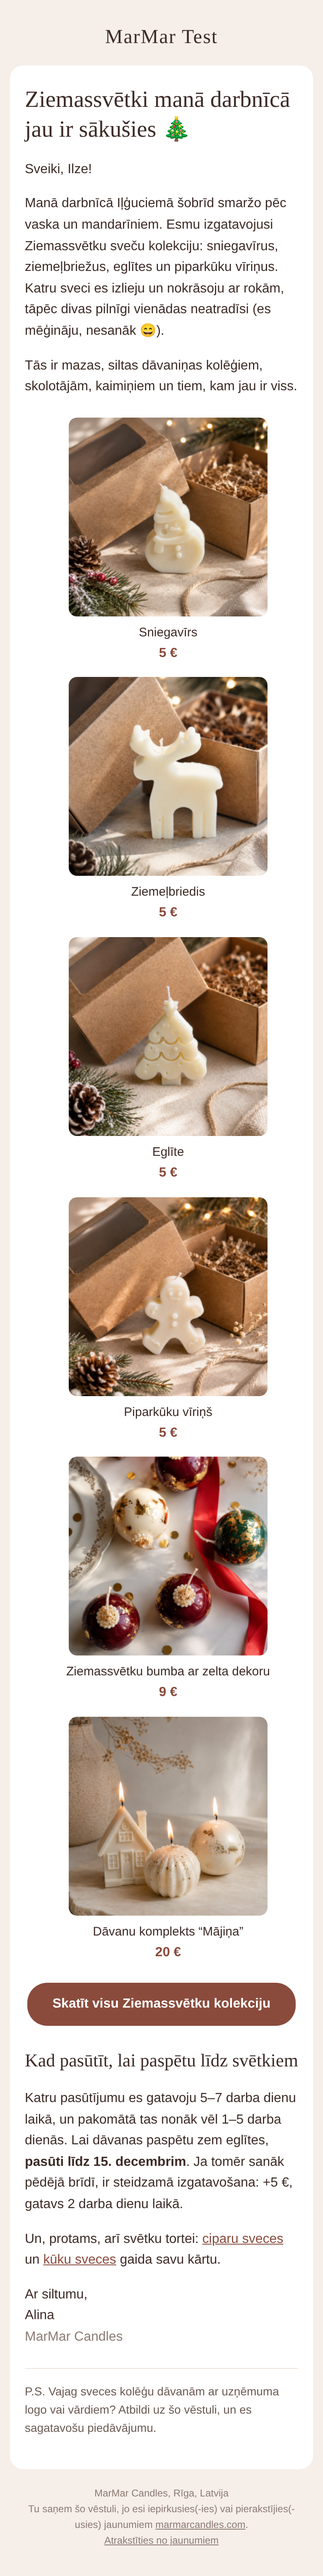
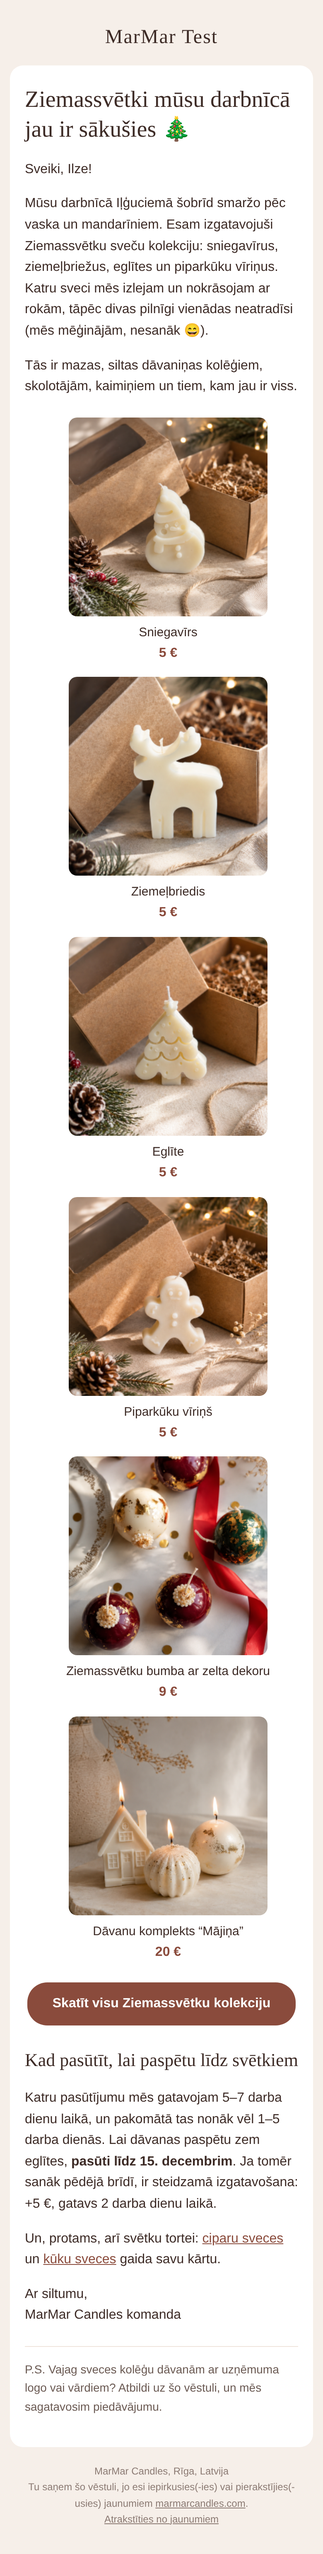
Newsletter: write as 'we', add CSV import of existing subscriber list
- Christmas email and unsubscribe pages rewritten in first person plural
- CSV import (Mailchimp/Excel/Sheets exports, auto-detects delimiter and
  email/name/status columns); imported list counts as consent
- Importing an old list never re-subscribes people who unsubscribed

Claude-Session: https://claude.ai/code/session_011DEezwcamAFfn5Hchc6uxh

Changed region(s): [[0.0615, 0.0311, 0.9231, 0.9964], [0.3077, 0.9653, 0.3385, 0.9964]]

diff --git a/newsletters/2026-11-ziemassvetki-preview.html b/newsletters/2026-11-ziemassvetki-preview.html
@@ -28,9 +28,9 @@
 				</tr>
 				<tr>
 					<td class="mm-card mm-content" style="background:#ffffff;border-radius:16px;padding:36px 40px;font-family:Arial,Helvetica,sans-serif;font-size:16px;line-height:1.6;color:#3d2b26;">
-						<h1 style="font-family:Georgia,&#039;Times New Roman&#039;,serif;font-weight:normal;font-size:28px;line-height:1.3;margin:0 0 16px">Ziemassvētki manā darbnīcā jau ir sākušies 🎄</h1>
+						<h1 style="font-family:Georgia,&#039;Times New Roman&#039;,serif;font-weight:normal;font-size:28px;line-height:1.3;margin:0 0 16px">Ziemassvētki mūsu darbnīcā jau ir sākušies 🎄</h1>
 <p>Sveiki, Ilze!</p>
-<p>Manā darbnīcā Iļģuciemā šobrīd smaržo pēc vaska un mandarīniem. Esmu izgatavojusi Ziemassvētku sveču kolekciju: sniegavīrus, ziemeļbriežus, eglītes un piparkūku vīriņus. Katru sveci es izlieju un nokrāsoju ar rokām, tāpēc divas pilnīgi vienādas neatradīsi (es mēģināju, nesanāk 😄).</p>
+<p>Mūsu darbnīcā Iļģuciemā šobrīd smaržo pēc vaska un mandarīniem. Esam izgatavojuši Ziemassvētku sveču kolekciju: sniegavīrus, ziemeļbriežus, eglītes un piparkūku vīriņus. Katru sveci mēs izlejam un nokrāsojam ar rokām, tāpēc divas pilnīgi vienādas neatradīsi (mēs mēģinājām, nesanāk 😄).</p>
 <p>Tās ir mazas, siltas dāvaniņas kolēģiem, skolotājām, kaimiņiem un tiem, kam jau ir viss.</p>
 <table role="presentation" width="100%" cellpadding="0" cellspacing="0" border="0" style="margin:8px 0 16px">
 <tr>
@@ -52,12 +52,11 @@
 </tr>
 </table>
 <h2 style="font-family:Georgia,&#039;Times New Roman&#039;,serif;font-weight:normal;font-size:22px;margin:8px 0 8px">Kad pasūtīt, lai paspētu līdz svētkiem</h2>
-<p>Katru pasūtījumu es gatavoju 5–7 darba dienu laikā, un pakomātā tas nonāk vēl 1–5 darba dienās. Lai dāvanas paspētu zem eglītes, <strong>pasūti līdz 15. decembrim</strong>. Ja tomēr sanāk pēdējā brīdī, ir steidzamā izgatavošana: +5 €, gatavs 2 darba dienu laikā.</p>
+<p>Katru pasūtījumu mēs gatavojam 5–7 darba dienu laikā, un pakomātā tas nonāk vēl 1–5 darba dienās. Lai dāvanas paspētu zem eglītes, <strong>pasūti līdz 15. decembrim</strong>. Ja tomēr sanāk pēdējā brīdī, ir steidzamā izgatavošana: +5 €, gatavs 2 darba dienu laikā.</p>
 <p>Un, protams, arī svētku tortei: <a href="https://marmarcandles.com/lv/product-category/tortes-sveces/ciparu-sveces/?utm_source=newsletter&#038;utm_medium=email&#038;utm_campaign=ziemassvetki-2026">ciparu sveces</a> un <a href="https://marmarcandles.com/lv/product-category/tortes-sveces/?utm_source=newsletter&#038;utm_medium=email&#038;utm_campaign=ziemassvetki-2026">kūku sveces</a> gaida savu kārtu.</p>
 <p>Ar siltumu,<br />
-Alina<br />
-<span style="color:#8c7b74">MarMar Candles</span></p>
-<p style="font-size:14px;color:#6b5a53;border-top:1px solid #efe4dc;padding-top:16px;margin-top:24px">P.S. Vajag sveces kolēģu dāvanām ar uzņēmuma logo vai vārdiem? Atbildi uz šo vēstuli, un es sagatavošu piedāvājumu.</p>
+MarMar Candles komanda</p>
+<p style="font-size:14px;color:#6b5a53;border-top:1px solid #efe4dc;padding-top:16px;margin-top:24px">P.S. Vajag sveces kolēģu dāvanām ar uzņēmuma logo vai vārdiem? Atbildi uz šo vēstuli, un mēs sagatavosim piedāvājumu.</p>
 					</td>
 				</tr>
 				<tr>

diff --git a/newsletters/2026-11-ziemassvetki.html b/newsletters/2026-11-ziemassvetki.html
@@ -1,8 +1,8 @@
-<h1 style="font-family:Georgia,'Times New Roman',serif;font-weight:normal;font-size:28px;line-height:1.3;margin:0 0 16px;">Ziemassvētki manā darbnīcā jau ir sākušies 🎄</h1>
+<h1 style="font-family:Georgia,'Times New Roman',serif;font-weight:normal;font-size:28px;line-height:1.3;margin:0 0 16px;">Ziemassvētki mūsu darbnīcā jau ir sākušies 🎄</h1>
 
 Sveiki{vards_komats}!
 
-Manā darbnīcā Iļģuciemā šobrīd smaržo pēc vaska un mandarīniem. Esmu izgatavojusi Ziemassvētku sveču kolekciju: sniegavīrus, ziemeļbriežus, eglītes un piparkūku vīriņus. Katru sveci es izlieju un nokrāsoju ar rokām, tāpēc divas pilnīgi vienādas neatradīsi (es mēģināju, nesanāk 😄).
+Mūsu darbnīcā Iļģuciemā šobrīd smaržo pēc vaska un mandarīniem. Esam izgatavojuši Ziemassvētku sveču kolekciju: sniegavīrus, ziemeļbriežus, eglītes un piparkūku vīriņus. Katru sveci mēs izlejam un nokrāsojam ar rokām, tāpēc divas pilnīgi vienādas neatradīsi (mēs mēģinājām, nesanāk 😄).
 
 Tās ir mazas, siltas dāvaniņas kolēģiem, skolotājām, kaimiņiem un tiem, kam jau ir viss.
 
@@ -10,12 +10,11 @@ Tās ir mazas, siltas dāvaniņas kolēģiem, skolotājām, kaimiņiem un tiem, 
 <table role="presentation" cellpadding="0" cellspacing="0" border="0" align="center" style="margin:8px auto 24px;"><tr><td style="background:#8a4b3c;border-radius:24px;"><a href="https://marmarcandles.com/lv/product-category/ziemassvetku-sveces/" style="display:inline-block;padding:13px 30px;color:#ffffff;text-decoration:none;font-weight:bold;font-size:16px;">Skatīt visu Ziemassvētku kolekciju</a></td></tr></table>
 <h2 style="font-family:Georgia,'Times New Roman',serif;font-weight:normal;font-size:22px;margin:8px 0 8px;">Kad pasūtīt, lai paspētu līdz svētkiem</h2>
 
-Katru pasūtījumu es gatavoju 5–7 darba dienu laikā, un pakomātā tas nonāk vēl 1–5 darba dienās. Lai dāvanas paspētu zem eglītes, <strong>pasūti līdz 15. decembrim</strong>. Ja tomēr sanāk pēdējā brīdī, ir steidzamā izgatavošana: +5 €, gatavs 2 darba dienu laikā.
+Katru pasūtījumu mēs gatavojam 5–7 darba dienu laikā, un pakomātā tas nonāk vēl 1–5 darba dienās. Lai dāvanas paspētu zem eglītes, <strong>pasūti līdz 15. decembrim</strong>. Ja tomēr sanāk pēdējā brīdī, ir steidzamā izgatavošana: +5 €, gatavs 2 darba dienu laikā.
 
 Un, protams, arī svētku tortei: <a href="https://marmarcandles.com/lv/product-category/tortes-sveces/ciparu-sveces/">ciparu sveces</a> un <a href="https://marmarcandles.com/lv/product-category/tortes-sveces/">kūku sveces</a> gaida savu kārtu.
 
 Ar siltumu,
-Alina
-<span style="color:#8c7b74;">MarMar Candles</span>
+MarMar Candles komanda
 
-<p style="font-size:14px;color:#6b5a53;border-top:1px solid #efe4dc;padding-top:16px;margin-top:24px;">P.S. Vajag sveces kolēģu dāvanām ar uzņēmuma logo vai vārdiem? Atbildi uz šo vēstuli, un es sagatavošu piedāvājumu.</p>
+<p style="font-size:14px;color:#6b5a53;border-top:1px solid #efe4dc;padding-top:16px;margin-top:24px;">P.S. Vajag sveces kolēģu dāvanām ar uzņēmuma logo vai vārdiem? Atbildi uz šo vēstuli, un mēs sagatavosim piedāvājumu.</p>

diff --git a/wordpress/marmar-newsletter/includes/class-subscribers.php b/wordpress/marmar-newsletter/includes/class-subscribers.php
@@ -9,8 +9,8 @@ class Marmar_NL_Subscribers {
 
 	const DB_VERSION = '1';
 
-	/** Источники с явным согласием (галочка, вручную). */
-	const CONSENT_SOURCES = array( 'checkout', 'manual' );
+	/** Источники с явным согласием (галочка, вручную, готовая база подписчиков). */
+	const CONSENT_SOURCES = array( 'checkout', 'manual', 'list' );
 
 	public static function table() {
 		global $wpdb;
@@ -124,7 +124,9 @@ class Marmar_NL_Subscribers {
 				}
 				return 'exists';
 			}
-			if ( ! in_array( $source, self::CONSENT_SOURCES, true ) ) {
+			// Вернуть отписавшегося может только свежее согласие (галочка или вручную),
+			// но не импорт старой базы.
+			if ( ! in_array( $source, array( 'checkout', 'manual' ), true ) ) {
 				return 'skipped';
 			}
 			$wpdb->update(
@@ -269,5 +271,98 @@ class Marmar_NL_Subscribers {
 			++$page;
 		} while ( count( $orders ) === 100 );
 		return $result;
+	}
+
+	/**
+	 * Импорт готовой базы подписчиков из CSV (экспорт Mailchimp, Excel, Google Sheets).
+	 *
+	 * Колонка email ищется по заголовку (email, e-mail, e-pasts, почта) или по
+	 * содержимому; имя — по заголовку (first name, vārds, имя, name).
+	 * Строки со статусом «unsubscribed / cleaned» заносятся как отписавшиеся.
+	 *
+	 * @return array{created:int,exists:int,skipped:int,unsubscribed:int,invalid:int}|string
+	 */
+	public static function import_csv( $path, $source = 'list' ) {
+		$raw = file_get_contents( $path ); // phpcs:ignore WordPress.WP.AlternativeFunctions
+		if ( false === $raw || '' === trim( $raw ) ) {
+			return 'Файл пустой.';
+		}
+		$raw = preg_replace( '/^\xEF\xBB\xBF/', '', $raw );
+		if ( ! mb_check_encoding( $raw, 'UTF-8' ) ) {
+			$raw = mb_convert_encoding( $raw, 'UTF-8', 'Windows-1257' );
+		}
+		$lines = preg_split( '/\r\n|\r|\n/', $raw );
+		$first = (string) $lines[0];
+		$delim = ',';
+		foreach ( array( ';', "\t", ',' ) as $d ) {
+			if ( substr_count( $first, $d ) > substr_count( $first, $delim ) ) {
+				$delim = $d;
+			}
+		}
+		$rows = array();
+		foreach ( $lines as $line ) {
+			if ( '' !== trim( $line ) ) {
+				$rows[] = str_getcsv( $line, $delim, '"', '\\' );
+			}
+		}
+		if ( ! $rows ) {
+			return 'В файле нет строк.';
+		}
+
+		$header    = array_map( static fn( $h ) => mb_strtolower( trim( (string) $h ) ), $rows[0] );
+		$email_col = null;
+		$name_col  = null;
+		$state_col = null;
+		foreach ( $header as $i => $h ) {
+			if ( null === $email_col && preg_match( '/e-?mail|e-?pasts|почт|адрес/u', $h ) ) {
+				$email_col = $i;
+			} elseif ( null === $name_col && preg_match( '/first|vārd|vard|имя|^name$|^vārds$/u', $h ) ) {
+				$name_col = $i;
+			} elseif ( null === $state_col && preg_match( '/status|statuss|статус/u', $h ) ) {
+				$state_col = $i;
+			}
+		}
+		$has_header = null !== $email_col;
+		if ( ! $has_header ) {
+			// Без заголовка: колонка, где в первой строке email.
+			foreach ( $rows[0] as $i => $cell ) {
+				if ( is_email( trim( (string) $cell ) ) ) {
+					$email_col = $i;
+					break;
+				}
+			}
+		}
+		if ( null === $email_col ) {
+			return 'Не нашёл колонку с email.';
+		}
+
+		$out = array( 'created' => 0, 'exists' => 0, 'skipped' => 0, 'unsubscribed' => 0, 'invalid' => 0 );
+		foreach ( array_slice( $rows, $has_header ? 1 : 0 ) as $row ) {
+			$email = self::normalize_email( $row[ $email_col ] ?? '' );
+			if ( ! $email ) {
+				++$out['invalid'];
+				continue;
+			}
+			$name  = null !== $name_col ? trim( (string) ( $row[ $name_col ] ?? '' ) ) : '';
+			$state = null !== $state_col ? mb_strtolower( trim( (string) ( $row[ $state_col ] ?? '' ) ) ) : '';
+			if ( preg_match( '/unsub|cleaned|bounced|atrakst|отпис/u', $state ) ) {
+				$r = self::add( $email, $name, $source );
+				$s = self::get_by_email( $email );
+				if ( $s ) {
+					self::unsubscribe( $s->id );
+				}
+				++$out['unsubscribed'];
+				continue;
+			}
+			$r = self::add( $email, $name, $source );
+			if ( 'created' === $r ) {
+				++$out['created'];
+			} elseif ( 'exists' === $r ) {
+				++$out['exists'];
+			} else {
+				++$out['skipped'];
+			}
+		}
+		return $out;
 	}
 }

diff --git a/wordpress/marmar-newsletter/includes/class-admin.php b/wordpress/marmar-newsletter/includes/class-admin.php
@@ -18,7 +18,7 @@ class Marmar_NL_Admin {
 		add_filter( 'manage_' . Marmar_NL_Campaigns::CPT . '_posts_columns', array( __CLASS__, 'columns' ) );
 		add_action( 'manage_' . Marmar_NL_Campaigns::CPT . '_posts_custom_column', array( __CLASS__, 'column' ), 10, 2 );
 
-		foreach ( array( 'test', 'start', 'pause', 'retry', 'import', 'add_sub', 'unsub', 'delete_sub', 'smtp_test' ) as $a ) {
+		foreach ( array( 'test', 'start', 'pause', 'retry', 'import', 'import_csv', 'add_sub', 'unsub', 'delete_sub', 'smtp_test' ) as $a ) {
 			add_action( 'admin_post_marmar_nl_' . $a, array( __CLASS__, 'action_' . $a ) );
 		}
 	}
@@ -236,6 +236,18 @@ class Marmar_NL_Admin {
 		self::back( sprintf( 'Импорт: новых %d, уже были %d, пропущено (отписались/ошибка) %d.', $r['created'], $r['exists'], $r['skipped'] ) );
 	}
 
+	public static function action_import_csv() {
+		self::guard( 'import_csv' );
+		if ( empty( $_FILES['csv']['tmp_name'] ) || ! is_uploaded_file( $_FILES['csv']['tmp_name'] ) ) { // phpcs:ignore WordPress.Security.ValidatedSanitizedInput
+			self::back( 'Файл не выбран.', 'error' );
+		}
+		$r = Marmar_NL_Subscribers::import_csv( $_FILES['csv']['tmp_name'] ); // phpcs:ignore WordPress.Security.ValidatedSanitizedInput
+		if ( is_string( $r ) ) {
+			self::back( $r, 'error' );
+		}
+		self::back( sprintf( 'Импорт базы: новых %d, уже были %d, отписавшихся %d, пропущено %d, неверных адресов %d.', $r['created'], $r['exists'], $r['unsubscribed'], $r['skipped'], $r['invalid'] ) );
+	}
+
 	public static function action_add_sub() {
 		self::guard( 'add_sub' );
 		$email = sanitize_email( wp_unslash( $_POST['email'] ?? '' ) );
@@ -291,6 +303,7 @@ class Marmar_NL_Admin {
 		$src    = array(
 			'checkout' => 'галочка в заказе',
 			'manual'   => 'вручную',
+			'list'     => 'база подписчиков (CSV)',
 			'customer' => 'покупатель (импорт)',
 		);
 		?>
@@ -306,6 +319,17 @@ class Marmar_NL_Admin {
 					<p>Добавляет покупателей из выполненных заказов. Им уходят только рассылки с аудиторией «Согласие + покупатели».
 						Отписавшиеся не возвращаются.</p>
 					<p><a class="button" href="<?php echo esc_url( self::action_url( 'import' ) ); ?>">Импортировать из заказов</a></p>
+				</div>
+				<div class="card" style="max-width:420px;">
+					<h2>Загрузить базу подписчиков</h2>
+					<p>CSV с колонкой email (и, если есть, имя). Подходит экспорт из Mailchimp, Excel или Google Sheets («Сохранить как CSV»).
+						Эти люди считаются давшими согласие. Отписавшиеся в файле останутся отписанными.</p>
+					<form method="post" enctype="multipart/form-data" action="<?php echo esc_url( admin_url( 'admin-post.php' ) ); ?>">
+						<input type="hidden" name="action" value="marmar_nl_import_csv">
+						<?php wp_nonce_field( 'marmar_nl_import_csv' ); ?>
+						<input type="file" name="csv" accept=".csv,text/csv" required>
+						<button class="button">Загрузить</button>
+					</form>
 				</div>
 				<div class="card" style="max-width:420px;">
 					<h2>Добавить вручную</h2>

diff --git a/wordpress/marmar-newsletter/includes/class-unsubscribe.php b/wordpress/marmar-newsletter/includes/class-unsubscribe.php
@@ -39,12 +39,12 @@ class Marmar_NL_Unsubscribe {
 			}
 			self::page(
 				'Tu esi atrakstījies(-usies)',
-				'<p>Vairs nesūtīšu tev jaunumus. Paldies, ka biji kopā ar mani!</p><p>Ja pārdomāsi, vari atkal atzīmēt piekrišanu nākamajā pasūtījumā.</p>'
+				'<p>Vairs nesūtīsim tev jaunumus. Paldies, ka biji kopā ar mums!</p><p>Ja pārdomāsi, vari atkal atzīmēt piekrišanu nākamajā pasūtījumā.</p>'
 			);
 		}
 
 		if ( ! $subscriber ) {
-			self::page( 'Saite nav derīga', '<p>Šī atrakstīšanās saite nav derīga vai jau ir izmantota. Ja vēstules joprojām pienāk, uzraksti man, un es to sakārtošu.</p>' );
+			self::page( 'Saite nav derīga', '<p>Šī atrakstīšanās saite nav derīga vai jau ir izmantota. Ja vēstules joprojām pienāk, uzraksti mums, un mēs to sakārtosim.</p>' );
 		}
 
 		if ( 'subscribed' !== $subscriber->status ) {

diff --git a/wordpress/marmar-newsletter/marmar-newsletter.php b/wordpress/marmar-newsletter/marmar-newsletter.php
@@ -2,7 +2,7 @@
 /**
  * Plugin Name: MarMar Newsletter
  * Description: Собственные рассылки без платных сервисов: галочка согласия при оформлении заказа, база подписчиков, письма-кампании с тестовой отправкой, отправка порциями, ссылка «atrakstīties», отправка через SMTP (Google).
- * Version: 1.0.0
+ * Version: 1.1.0
  * Author: MarMar CANDLES
  * Requires at least: 6.5
  * Requires PHP: 8.0
@@ -12,7 +12,7 @@
 
 defined( 'ABSPATH' ) || exit;
 
-define( 'MARMAR_NL_VERSION', '1.0.0' );
+define( 'MARMAR_NL_VERSION', '1.1.0' );
 define( 'MARMAR_NL_FILE', __FILE__ );
 define( 'MARMAR_NL_DIR', plugin_dir_path( __FILE__ ) );
 

diff --git a/wordpress/marmar-newsletter/includes/class-mailer.php b/wordpress/marmar-newsletter/includes/class-mailer.php
@@ -19,7 +19,7 @@ class Marmar_NL_Mailer {
 	public static function settings() {
 		$defaults = array(
 			'from_email'   => get_option( 'admin_email' ),
-			'from_name'    => 'Alina | MarMar Candles',
+			'from_name'    => 'MarMar Candles',
 			'smtp_enabled' => 0,
 			'smtp_host'    => 'smtp.gmail.com',
 			'smtp_port'    => 587,

diff --git a/CLAUDE.md b/CLAUDE.md
@@ -98,10 +98,12 @@
 - Ограничение v1: у 73 вариативных товаров в фид идёт минимальная цена (варианты отдельно не выгружаются).
 
 ## Рассылки (плагин `marmar-newsletter`, ноябрь 2026)
-- Свой бесплатный плагин: код в `wordpress/marmar-newsletter/`, ZIP для установки в `wordpress/dist/`.
+- Свой бесплатный плагин: код в `wordpress/marmar-newsletter/`, ZIP для установки в `wordpress/dist/` (сейчас 1.1.0).
 - Что умеет: галочка согласия в блочном оформлении заказа (не отмечена заранее), база подписчиков, импорт покупателей (источник `customer`, отправляются им только письма с аудиторией «all»), кампании с тестом, отправка порциями через Action Scheduler, отписка (страница с кнопкой и One-Click), SMTP через Google, UTM-метки.
 - Отправить всем можно **только кнопкой в админке**. Через REST я могу только создать черновик и отправить тест: `tools/newsletter_draft.py newsletters/<name>.json --test`.
 - Тексты писем лежат в `newsletters/`. Язык писем латышский.
+- **Письма-рассылки пишем от «мы»** (mēs, mūsu, «MarMar Candles komanda»), так решила Алина 06.11.2026. Правило «от первого лица, в единственном числе» выше относится к Instagram.
+- У Алины есть своя база получателей рассылки. Её загружают через «Рассылки → Подписчики → Загрузить базу» (CSV, источник `list`, считается согласием). Повторный импорт не возвращает отписавшихся.
 - SPF домена разрешает только Google, DKIM и DMARC не настроены. Письма сайта (wp_mail с area.lv) рискуют попасть в спам, поэтому нужен SMTP через Google.
 - На сайте уже есть свои плагины: `marmar-emails` (брошенные корзины, просьба об отзыве) и `wc-annual-reminder` (письмо через год). Их исходного кода в репозитории нет.
 
